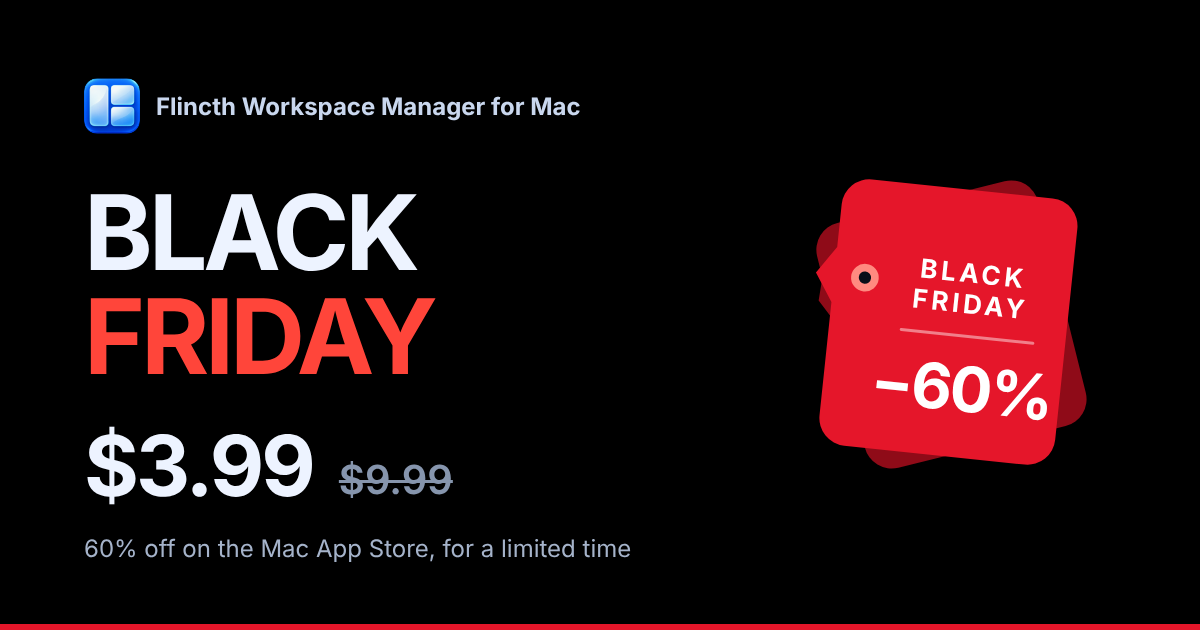
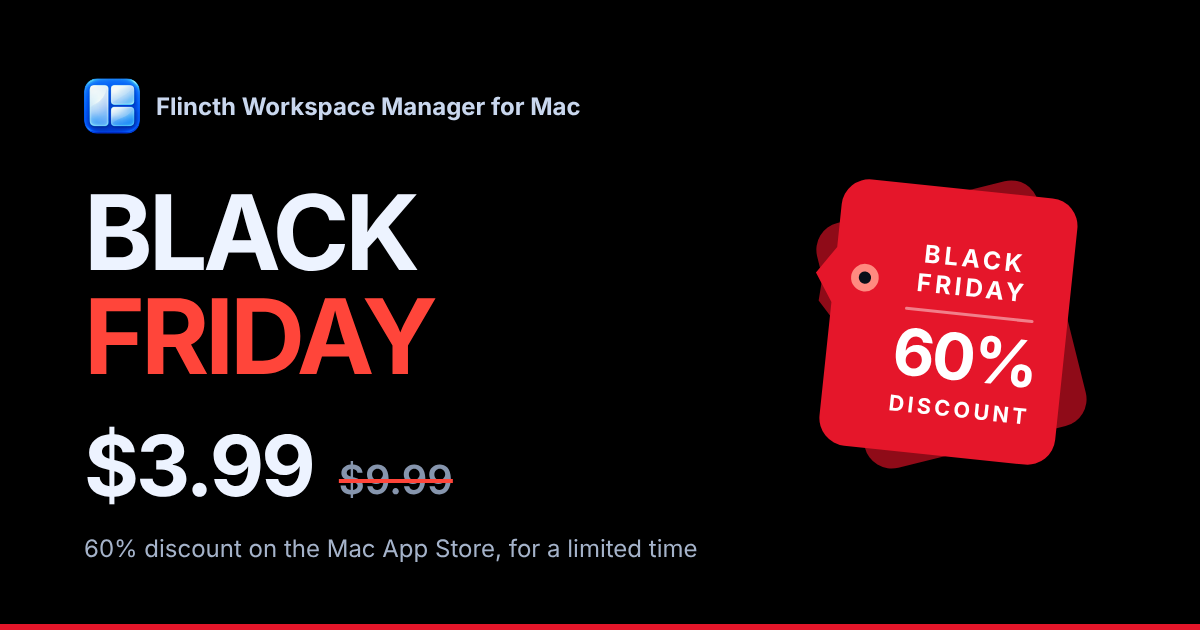
Say "60% discount" and strike usual prices through in red
The discount reads "60% discount" instead of "−60%" on the bar, the
deal card, the price tag, the panel heading, the share image,
pricing.md and llms.txt. Every struck-through usual price now has a
red line over a grey number.

Claude-Session: https://claude.ai/code/session_01CpC11h5A9UWY1cUixwwKyS

Changed region(s): [[0.7092, 0.3921, 0.8942, 0.6635], [0.1233, 0.8444, 0.5858, 0.9048], [0.2775, 0.754, 0.37, 0.7841]]

diff --git a/styles.css b/styles.css
@@ -453,7 +453,8 @@ h1>span{display:block}
 .sale-bar p{margin:0;font-size:15px;line-height:1.45}
 .sale-bar b,.sale-promo-copy b,.product-card-sale b{font-weight:750;letter-spacing:.08em;text-transform:uppercase;font-size:.85em;margin-right:6px}
 .sale-bar strong,.product-card-sale strong,.sale-promo strong{font-weight:700}
-.sale-bar s,.product-card-sale s,.deal-price s,.sale-promo s,.value-was{text-decoration-thickness:1.5px}
+.sale-bar s,.product-card-sale s,.deal-price s,.sale-promo s,.value-was{text-decoration-thickness:2px}
+.deal-price s{text-decoration-thickness:3px}
 .sale-bar-short{display:none}
 .nowrap{white-space:nowrap}
 .sale-cta-short{display:none}
@@ -472,7 +473,8 @@ h1>span{display:block}
 .deal-ends{font-size:14px;font-weight:600}
 .sale-promo{display:grid;grid-template-columns:auto 1fr auto;grid-template-areas:"off copy cta";align-items:center;gap:28px;max-width:920px;margin:40px auto 0;padding:24px 28px 24px 32px;border:1px solid;border-radius:24px;text-align:left;transition:transform .2s,border-color .2s}
 .sale-promo:hover{transform:translateY(-3px)}
-.sale-promo-off{grid-area:off;font-size:60px;font-weight:750;letter-spacing:-.04em;line-height:1}
+.sale-promo-off{grid-area:off;display:grid;justify-items:start;font-size:60px;font-weight:750;letter-spacing:-.04em;line-height:1}
+.sale-promo-off small{font-size:15px;font-weight:700;letter-spacing:.12em;text-transform:uppercase;margin-top:6px}
 .sale-promo-copy{grid-area:copy;display:grid;gap:5px;font-size:16px;line-height:1.45}
 .sale-promo-copy small{font-size:13px}
 .sale-promo-cta{grid-area:cta;display:inline-flex;align-items:center;justify-content:center;gap:8px;padding:13px 20px;border-radius:10px;font-size:15px;font-weight:600;white-space:nowrap}
@@ -510,7 +512,8 @@ h1>span{display:block}
   .deal-actions .button{flex:1 1 100%;justify-content:center}
   .deal-ends{flex:1 1 100%;text-align:center}
   .sale-promo{grid-template-columns:auto 1fr;grid-template-areas:"off off" "copy copy" "cta cta";gap:12px;margin-top:32px;padding:22px 20px 20px;border-radius:22px}
-  .sale-promo-off{font-size:48px}
+  .sale-promo-off{display:flex;align-items:baseline;gap:10px;font-size:48px}
+  .sale-promo-off small{margin-top:0}
   .sale-promo-copy{font-size:15px}
   .sale-promo-cta{margin-top:6px}
 }

diff --git a/_includes/sale-promo.html b/_includes/sale-promo.html
@@ -8,7 +8,7 @@
   {%- assign _t = site.data.i18n[page.lang] %}
   {%- capture _wm_url %}{% include page-url.html ref="workspace-manager" %}{% endcapture %}
       <a class="sale-promo" href="{{ _wm_url }}#deal" data-sale-starts="{{ sale.starts }}" data-sale-ends="{{ sale.ends }}">
-        <span class="sale-promo-off">{% include sale-text.html text=_t.sale.discount %}</span>
+        <span class="sale-promo-off">{% include sale-text.html text=_t.sale.discount_big %}</span>
         <span class="sale-promo-copy"><b>{{ sale.name }}</b><span>{% include sale-text.html text=_t.sale.promo %}</span><small><span data-sale-countdown data-tomorrow="{{ _t.sale.ends_tomorrow | escape }}" data-last="{{ _t.sale.last_day_left | escape }}">{{ _t.sale.limited }}</span></small></span>
         <span class="sale-promo-cta">{{ _t.sale.promo_cta }} <span aria-hidden="true">→</span></span>
       </a>

diff --git a/dark.css b/dark.css
@@ -292,7 +292,7 @@ footer > a:hover { color: #8db6ff; }
 .sale-pill { background: #e5162a; color: #fff; }
 .sale-bar b, .sale-promo-copy b, .product-card-sale b { color: #ff453a; }
 .sale-promo-off { color: #ff453a; }
-.sale-bar s, .product-card-sale s, .deal-price s, .sale-promo s, .value-was { color: #8695ad; }
+.sale-bar s, .product-card-sale s, .deal-price s, .sale-promo s, .value-was { color: #8695ad; text-decoration-color: #ff453a; }
 .sale-bar strong, .product-card-sale strong, .sale-promo strong { color: var(--ink); }
 .sale-countdown { color: var(--muted); }
 .sale-bar a { background: var(--action); color: #fff; }

diff --git a/DESIGN.md b/DESIGN.md
@@ -152,10 +152,10 @@ reader preview plays only when the visitor has not asked for reduced motion. Rep
 
 ### Limited-time deal
 While a sale in `_data/mac.yml` runs: a black bar above the header on every
-page (a red discount pill, the sale name in red small caps, the sale price in
+page (a red "60% discount" pill, the sale name in red small caps, the sale price in
 white, the usual price struck through, a blue link to the store; under 1180 px
 a shorter line, and on phones a "Get it" button), a black card under the home
-page's hero and the Mac page's lead with a large red discount that links to
+page's hero and the Mac page's lead with a large red "60% discount" that links to
 the deal, a black panel in Workspace Manager's hero above the preview (a red
 price tag in the brand mark's two-card shape, heading, both prices, one blue
 button, "Limited time only.") with the sale price on the hero button, and a
@@ -163,7 +163,8 @@ black line on its product card.
 
 **Red marks the deal, nothing else.** The one exception to "One accent", and
 only while a sale runs: red (#e5162a under white text, #ff453a as text on
-black) is used for the discount, the sale's name and the price tag. Prices stay
+black) is used for the discount, the sale's name, the price tag and the line
+through each usual price. The discount is written "60% discount", never "−60%". Prices stay
 neutral and every button stays blue. Nothing about the deal is invented: the
 price and the discount come from the data file. The end date is never shown,
 so the deal does not read as one to come back for; the countdown appears only
